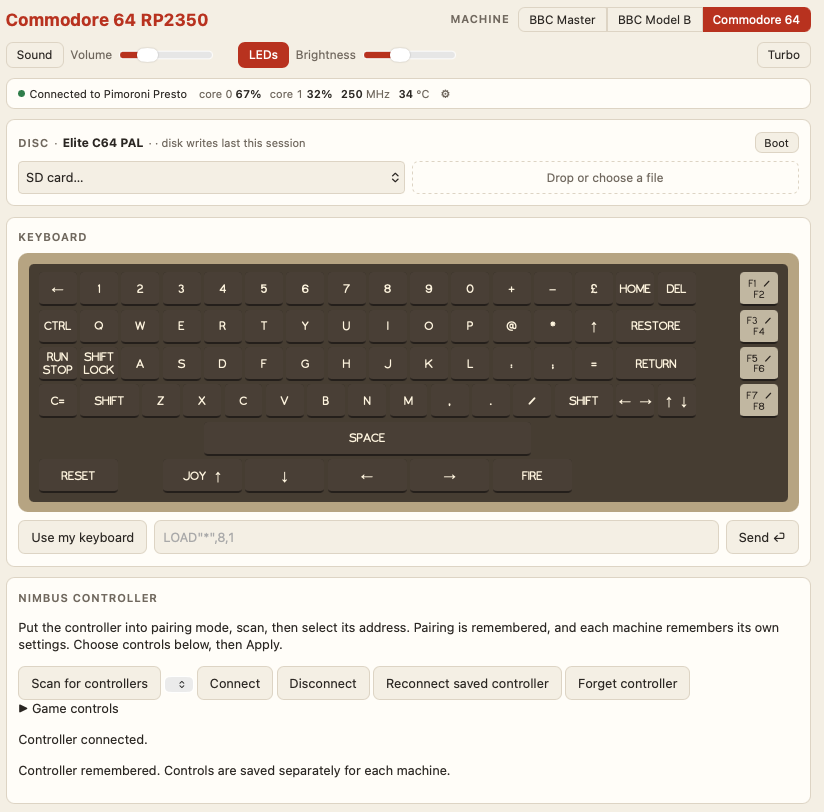
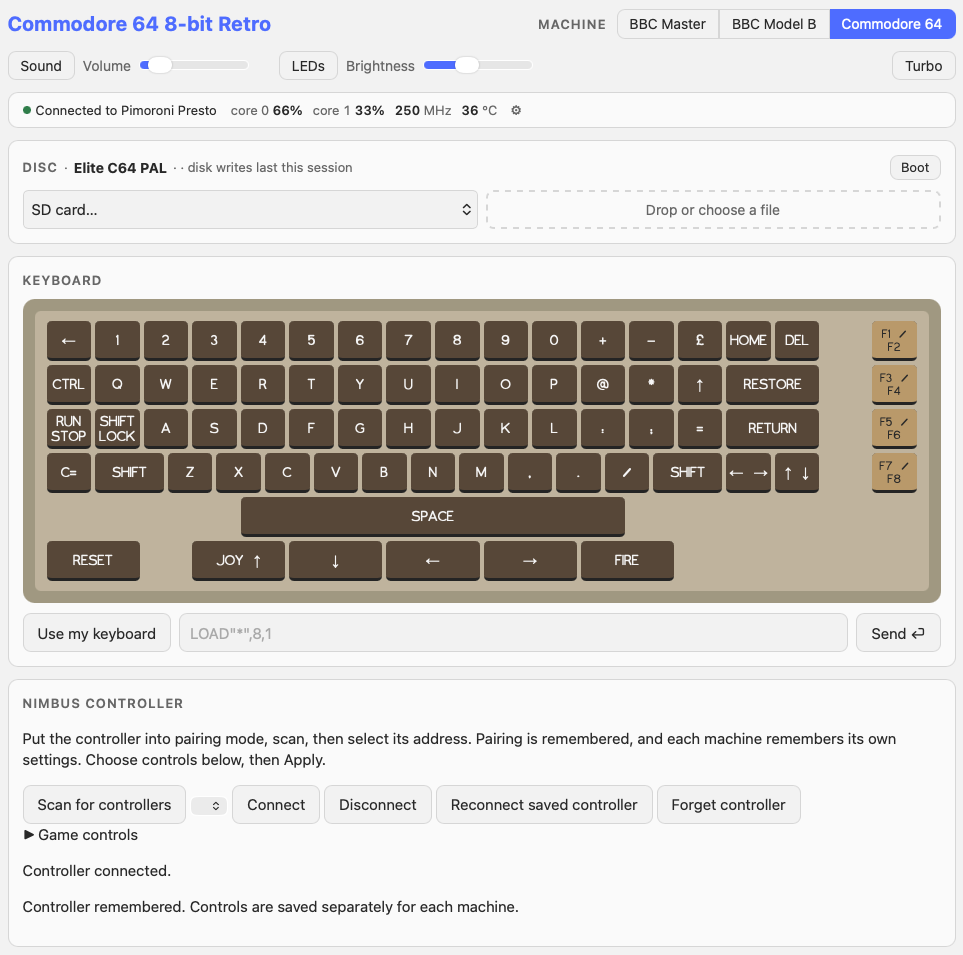
Refresh tested web interface screenshot and hostname guidance

diff --git a/UPSTREAM-README.md b/UPSTREAM-README.md
@@ -1,3 +1,7 @@
+> Historical upstream README, retained for attribution and reference. For this fork,
+> use **http://8bitretro.local/** and follow the current [README](README.md).
+> The `beeb.local` links below describe the original upstream firmware.
+
 > Historical README preserved from the BBC/C64 integration baseline. Links, release instructions and feature claims below describe that earlier project; use [README.md](README.md) for this project.
 
 > Experimental C64 integration (r11): see [build/dependency instructions](docs/c64-pr-build.md) and [credits](docs/c64-credits.md). FRANK is fetched from the configured fork; Elite is downloaded separately. The tested performance improvements are enabled by default; see [performance and validation](docs/c64-optimised-release.md).

diff --git a/docs/releases/retro-initial.md b/docs/releases/retro-initial.md
@@ -13,7 +13,8 @@ retaining its history and credits and adding the integrated C64 and Nimbus work.
 - A branded build entry point and combined CI artifact.
 
 Saved Wi-Fi, disk-save locations and Nimbus pairing/profile format are unchanged.
-The hostname remains `beeb.local`; use the device's IP address if needed.
+This initial release used `beeb.local`. Current builds use `8bitretro.local`;
+use the device's IP address if needed.
 
 This release is based on hardware-tested controller test 5 and the clean Nimbus
 build. Project branding and packaging changes receive local build/tests; they do

diff --git a/docs/boot-banner.md b/docs/boot-banner.md
@@ -45,3 +45,7 @@ both on and off, and switching between all three machines after boot.
 Hardware testing of the IP-wait banner firmware was reported successful by the
 project owner on 4 November 2026. The tested package was
 `retro-ip-wait-banner-test.zip`; machine switches bypass the banner.
+
+The subsequent `8bitretro.local` hostname and blue web-theme build also passed
+hardware testing, as reported by the project owner on 4 November 2026. The
+README screenshot was refreshed from that tested interface.
